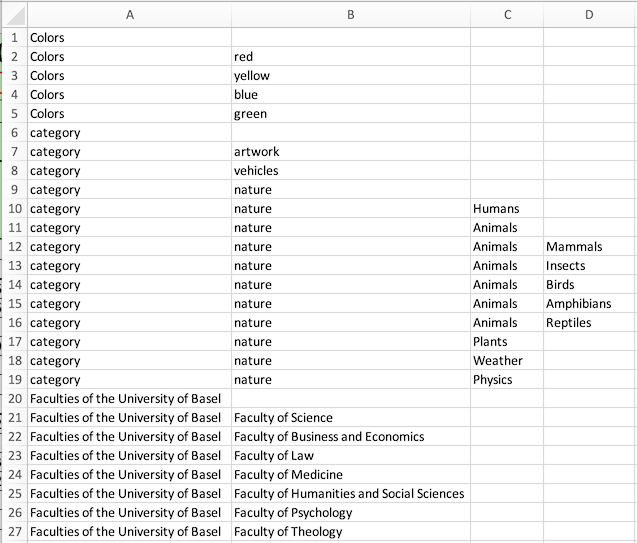
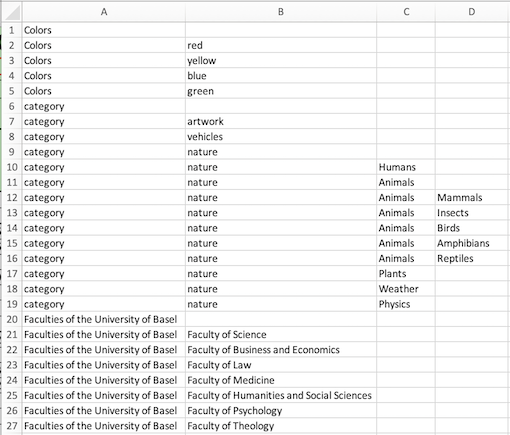
remove { width=xx% }, instead make images smaller

diff --git a/docs/dsp-tools-excel2json.md b/docs/dsp-tools-excel2json.md
@@ -81,7 +81,7 @@ The expected columns are:
 The optional columns may be omitted in the Excel.
 
 All other worksheets, one for each resource class, have the following structure:  
-![img-resources-example-2.png](assets/images/img-resources-example-2.png){ width=30% }
+![img-resources-example-2.png](assets/images/img-resources-example-2.png)
 
 The expected columns are:
 
@@ -143,8 +143,8 @@ dsp-tools excel2lists listfolder lists.json
 ```
 
 The Excel sheets must have the following structure:  
-![img-list-english-example.png](assets/images/img-list-english-example.png){ width=60% }  
-![img-list-german-example.png](assets/images/img-list-german-example.png){ width=60% }
+![img-list-english-example.png](assets/images/img-list-english-example.png)  
+![img-list-german-example.png](assets/images/img-list-german-example.png)
 
 Some notes:
 
